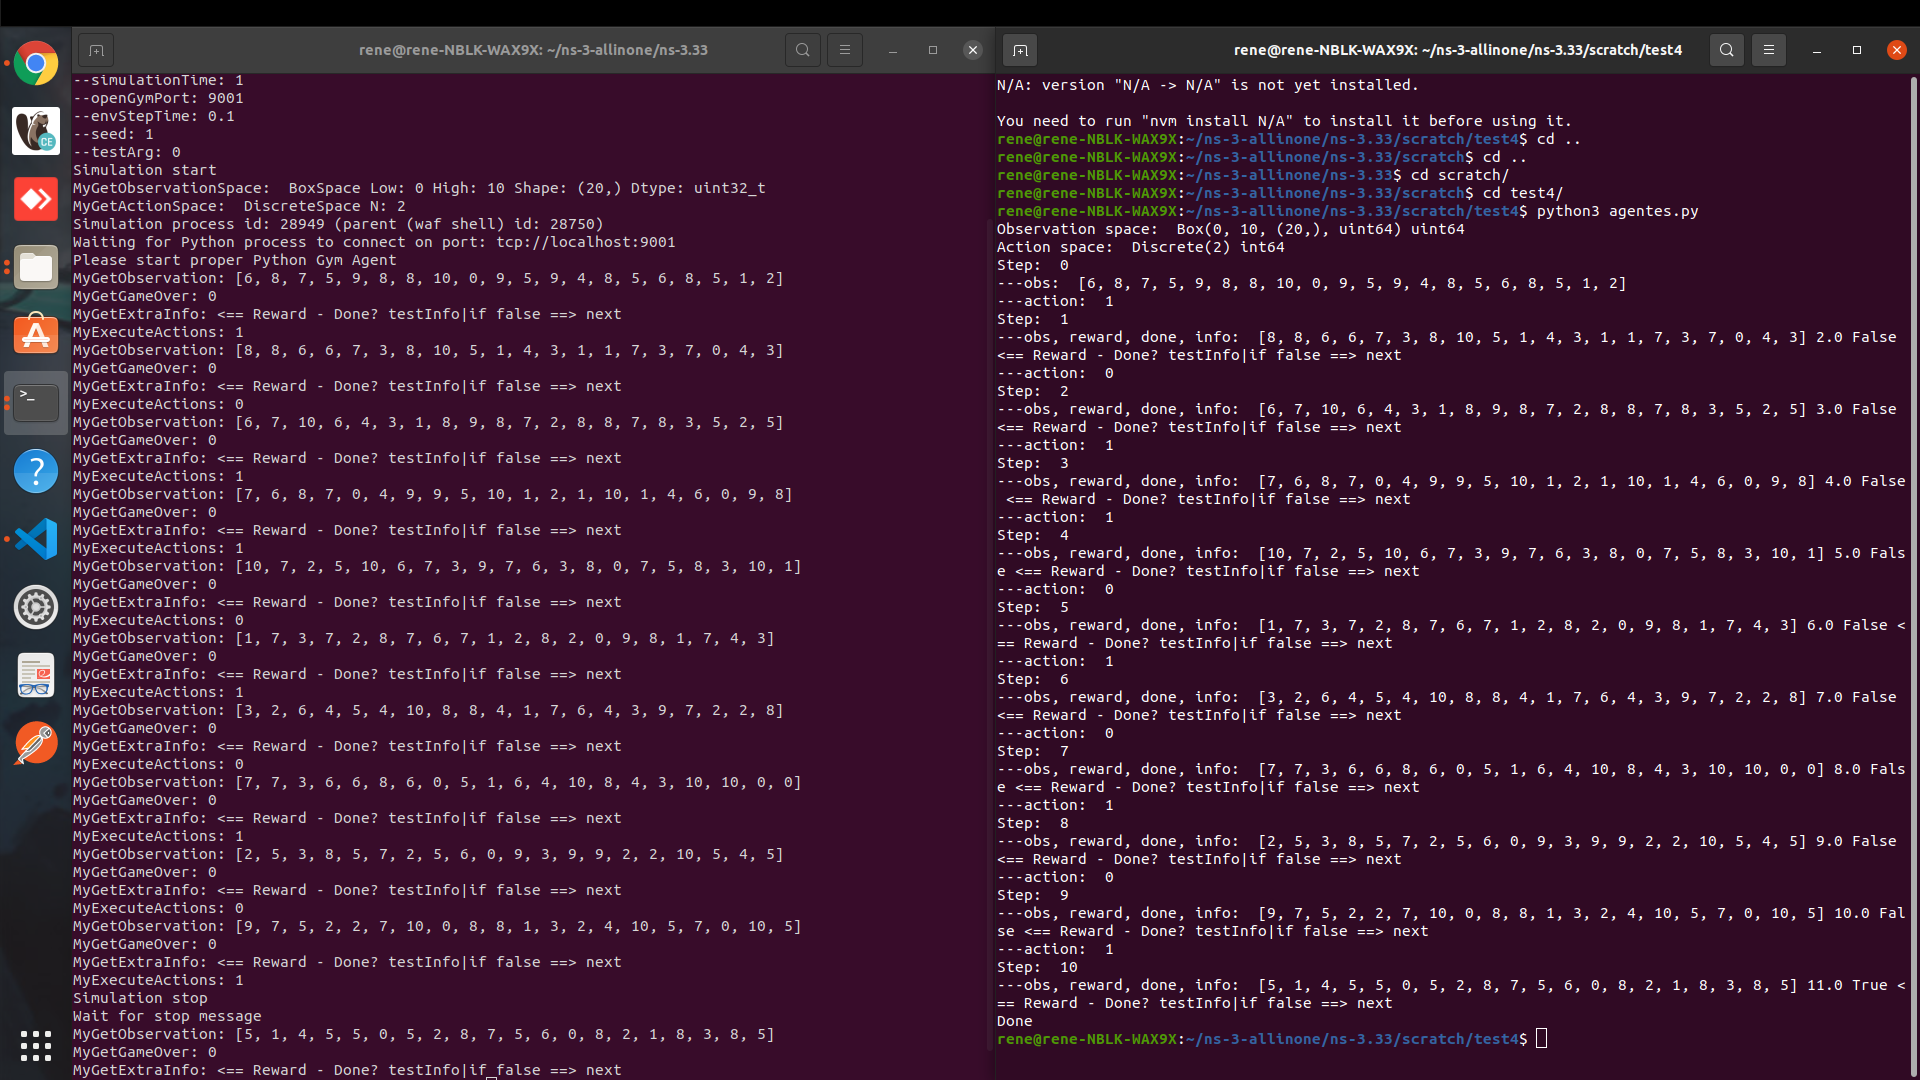
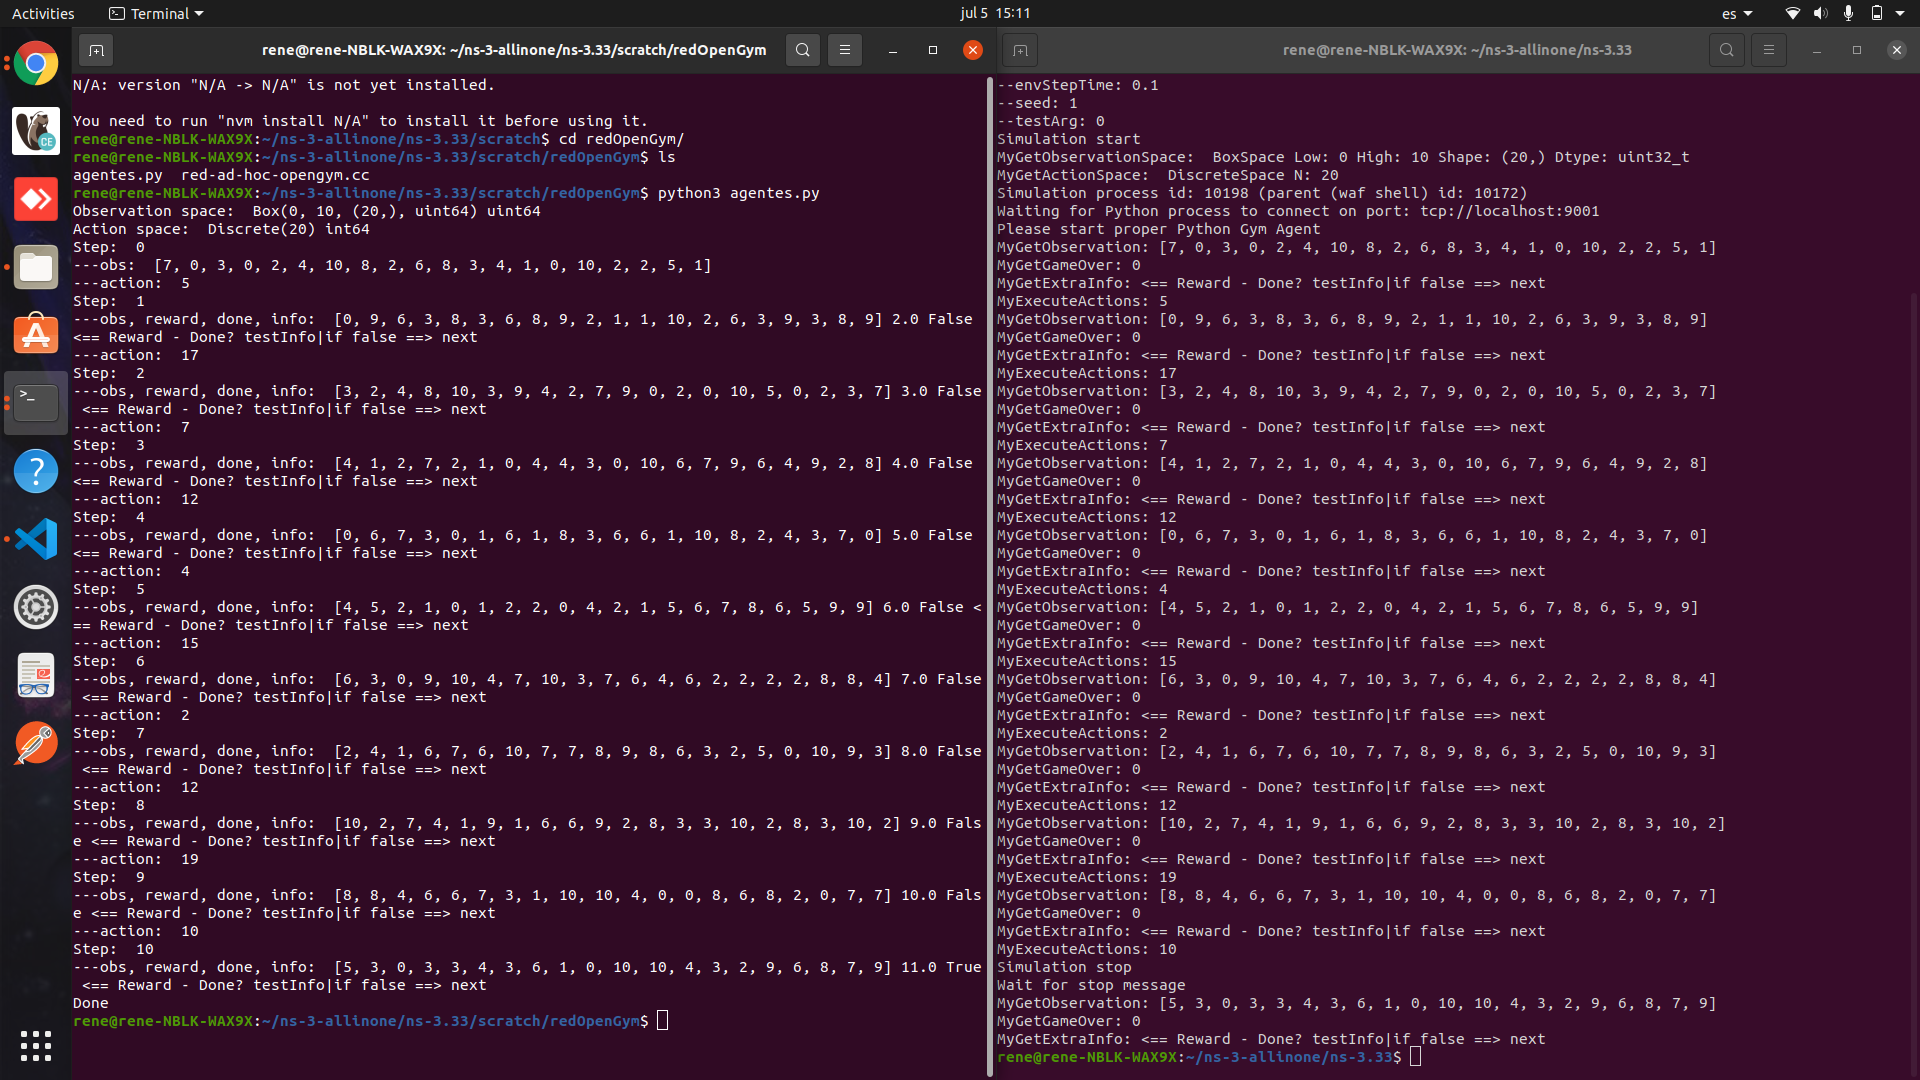
new fixes in opengym escenario :penguin:

diff --git a/Taller ME  G3/redOpenGym/red-ad-hoc-opengym.cc b/Taller ME  G3/redOpenGym/red-ad-hoc-opengym.cc
@@ -1,18 +1,31 @@
+#include "ns3/end-device-lora-phy.h"
+#include "ns3/gateway-lora-phy.h"
+#include "ns3/end-device-lorawan-mac.h"
+#include "ns3/gateway-lorawan-mac.h"
+#include "ns3/simulator.h"
+#include "ns3/log.h"
+#include "ns3/constant-position-mobility-model.h"
+#include "ns3/lora-helper.h"
+#include "ns3/mobility-helper.h"
+#include "ns3/node-container.h"
+#include "ns3/position-allocator.h"
+#include "ns3/one-shot-sender-helper.h"
+#include "ns3/command-line.h"
+#include <algorithm>
+#include <ctime>
+
+
+
 #include "ns3/core-module.h"
 #include "ns3/opengym-module.h"
-#include "ns3/applications-module.h"
-#include "ns3/mobility-module.h"
-#include "ns3/wifi-module.h"
-#include "ns3/csma-module.h"
-#include "ns3/olsr-helper.h"
-#include "ns3/internet-module.h"
-#include "ns3/netanim-module.h"
-using namespace ns3;
 
-NS_LOG_COMPONENT_DEFINE ("OpenGym ME G3");
+using namespace ns3;
+using namespace lorawan; 
+
+NS_LOG_COMPONENT_DEFINE ("OpenGym");
 
 /*
-Definimos espacio de observacion
+Define observation space
 */
 Ptr<OpenGymSpace> MyGetObservationSpace(void)
 {
@@ -27,11 +40,11 @@ Ptr<OpenGymSpace> MyGetObservationSpace(void)
 }
 
 /*
-Definimos espacio de acción
+Define action space
 */
 Ptr<OpenGymSpace> MyGetActionSpace(void)
 {
-  uint32_t nodeNum = 2;
+  uint32_t nodeNum = 20;
 
   Ptr<OpenGymDiscreteSpace> space = CreateObject<OpenGymDiscreteSpace> (nodeNum);
   NS_LOG_UNCOND ("MyGetActionSpace: " << space);
@@ -39,7 +52,7 @@ Ptr<OpenGymSpace> MyGetActionSpace(void)
 }
 
 /*
-Definimos terminacion de juego
+Define game over condition
 */
 bool MyGetGameOver(void)
 {
@@ -56,68 +69,34 @@ bool MyGetGameOver(void)
 }
 
 /*
-Recojemos Observaciones
+Collect observations
 */
 Ptr<OpenGymDataContainer> MyGetObservation(void)
 {
-  //
-  // Primero, inicializamos algunas variables locales que controlan algunos
-  // parametros de la simulacion.
-  //
-  uint32_t backboneNodes = 2;
-  
-  Config::SetDefault ("ns3::OnOffApplication::PacketSize", StringValue ("1472"));
-  Config::SetDefault ("ns3::OnOffApplication::DataRate", StringValue ("100kb/s"));
-  ///////////////////////////////////////////////////////////////////////////
-  //                                                                       //
-  // EL backbone                                                           //
-  //                                                                       //
-  ///////////////////////////////////////////////////////////////////////////
+  Ptr<LogDistancePropagationLossModel> loss = CreateObject<LogDistancePropagationLossModel> ();
+  loss->SetPathLossExponent (3.85);
+  loss->SetReference (1, 7.4);
 
-  //
-  // Creamos un contenedor para administrar los nodos de la red adhoc (backbone).
-  //
-  NodeContainer backbone;
-  backbone.Create (backboneNodes);
-  //
-  // Se define la red wifi al giual qeu en el ejemplo #1
-  //si cuenta con un ns3 version .19
-  // debe descomentar la linea 93 y comentar las lineas 91 y 92
-  WifiHelper wifi;
-  WifiMacHelper mac;
-  mac.SetType ("ns3::AdhocWifiMac");
-  wifi.SetRemoteStationManager ("ns3::ConstantRateWifiManager",
-                                "DataMode", StringValue ("OfdmRate54Mbps"));
-  YansWifiPhyHelper wifiPhy;
-  wifiPhy.SetErrorRateModel ("ns3::NistErrorRateModel");
-  //YansWifiPhyHelper wifiPhy = YansWifiPhyHelper::Default ();
-  YansWifiChannelHelper wifiChannel = YansWifiChannelHelper::Default ();
-  wifiPhy.SetChannel (wifiChannel.Create ());
-  NetDeviceContainer backboneDevices = wifi.Install (wifiPhy, mac, backbone);
-  //
-  // Agregamos la pila de protocolos IPv4 a los nodos en nuestro contenedor
-  //
+  Ptr<PropagationDelayModel> delay = CreateObject<ConstantSpeedPropagationDelayModel> ();
 
-  //OlsrHelper olsr;
-  InternetStackHelper internet;
+  Ptr<LoraChannel> channel = CreateObject<LoraChannel> (loss, delay);
 
-  //internet.SetRoutingHelper (olsr); 
+  /************************
+  *  Create the helpers  *
+  ************************/
 
-  internet.Install(backbone);
-  //
-  // Asignamos direcciones IPv4 a los controladores de dispositivo (en realidad a las interfaces 
-  // IPv4 asociadas) que acabamos de crear.
-  //
-  Ipv4AddressHelper ipAddrs;
-  ipAddrs.SetBase ("192.168.0.0", "255.255.255.0");
-  //ipAddrs.Assign(backboneDevices);
+  //para est ejemplo se asignan en el chanel posiciones cosntantes dado un vector de 0 a 500
 
-  //
-  // Los nodos de red ad-hoc necesitan un modelo de movilidad, por lo que agregamos uno para
-  // cada uno de los nodos que acabamos de terminar de construir.
-  //
+  NS_LOG_INFO ("Setting up helpers...");
 
   MobilityHelper mobility;
+  Ptr<ListPositionAllocator> allocator = CreateObject<ListPositionAllocator> ();
+  allocator->Add (Vector (500,0,0));
+  allocator->Add (Vector (0,0,0));
+  mobility.SetPositionAllocator (allocator);
+  mobility.SetMobilityModel ("ns3::ConstantPositionMobilityModel");
+
+  /*MobilityHelper mobility;
   mobility.SetPositionAllocator ("ns3::GridPositionAllocator",
                                  "MinX", DoubleValue (20.0),
                                  "MinY", DoubleValue (20.0),
@@ -128,47 +107,95 @@ Ptr<OpenGymDataContainer> MyGetObservation(void)
   mobility.SetMobilityModel ("ns3::RandomDirection2dMobilityModel",
                              "Bounds", RectangleValue (Rectangle (-500, 500, -500, 500)),
                              "Speed", StringValue ("ns3::ConstantRandomVariable[Constant=2]"),
-                             "Pause", StringValue ("ns3::ConstantRandomVariable[Constant=0.2]"));
-  mobility.Install (backbone);
-//se define una mobilidad 2 para casos de estudio
-  /*
-  MobilityHelper mobility;
-  Ptr<ListPositionAllocator> allocator = CreateObject<ListPositionAllocator> ();
-  allocator->Add (Vector (1000,0,0));
-  allocator->Add (Vector (0,0,0));
-  mobility.SetPositionAllocator (allocator);
-  mobility.SetMobilityModel ("ns3::ConstantPositionMobilityModel");
-  mobility.Install (backbone);
-  */
+                             "Pause", StringValue ("ns3::ConstantRandomVariable[Constant=0.2]"));*/
+
+  // Create the LoraPhyHelper  aqui asignamos la capa fisica
+  LoraPhyHelper phyHelper = LoraPhyHelper ();
+  phyHelper.SetChannel (channel);
+
+  // Create the LorawanMacHelper aqui asignamos la capa de mac 
+  LorawanMacHelper macHelper = LorawanMacHelper ();
+
+  // Create the LoraHelper
+  LoraHelper helper = LoraHelper ();
+
+  /************************
+  *  Create End Devices  *
+  ************************/
+
+  NS_LOG_INFO ("Creating the end device...");
+
+  // Create a set of nodes
+  NodeContainer endDevices;
+  endDevices.Create (20);
+
+  // Assign a mobility model to the node
+  mobility.Install (endDevices);
+
+  uint8_t nwkId = 54;
+  uint32_t nwkAddr = 1864;
+  Ptr<LoraDeviceAddressGenerator> addrGen = CreateObject<LoraDeviceAddressGenerator> (nwkId, nwkAddr);
+  macHelper.SetAddressGenerator (addrGen);
+
+  // Create the LoraNetDevices of the end devices    aqui usamos las definiciones de capa fisica y mas para
+  //que se identifiquen en el canal los equipos como dispositivos finales o endpoints
+  phyHelper.SetDeviceType (LoraPhyHelper::ED);
+  macHelper.SetDeviceType (LorawanMacHelper::ED_A);
+  helper.Install (phyHelper, macHelper, endDevices);
+
+  /*********************
+  *  Create Gateways  *
+  *********************/
+
+  NS_LOG_INFO ("Creating the gateway...");
+  NodeContainer gateways;
+  gateways.Create (1);
+
+  mobility.Install (gateways);
+
+  // Create a netdevice for each gateway
+  phyHelper.SetDeviceType (LoraPhyHelper::GW);
+  macHelper.SetDeviceType (LorawanMacHelper::GW);
+  helper.Install (phyHelper, macHelper, gateways);
+
+  /*********************************************
+  *  Install applications on the end devices  *
+  *********************************************/
+
+  OneShotSenderHelper oneShotSenderHelper;
+  oneShotSenderHelper.SetSendTime (Seconds (3));
+
+  oneShotSenderHelper.Install (endDevices);
+
+  /******************
+   * Set Data Rates *
+   ******************/
+  std::vector<int> sfQuantity (5);
+  sfQuantity = macHelper.SetSpreadingFactorsUp (endDevices, gateways, channel);
 
   NS_LOG_INFO ("Run Simulation.");
-
-  //Simulator::Stop (Seconds (stopTime));
-  //Simulator::Run ();
-  //Simulator::Destroy ();
-
   uint32_t nodeNum = 20;
   uint32_t low = 0.0;
   uint32_t high = 10.0;
   Ptr<UniformRandomVariable> rngInt = CreateObject<UniformRandomVariable> ();
 
+
+
   std::vector<uint32_t> shape = {nodeNum,};
   Ptr<OpenGymBoxContainer<uint32_t> > box = CreateObject<OpenGymBoxContainer<uint32_t> >(shape);
 
-  // genera datos aleatorios
+  // generate random data
   for (uint32_t i = 0; i<nodeNum; i++){
     uint32_t value = rngInt->GetInteger(low, high);
     box->AddValue(value);
   }
 
   NS_LOG_UNCOND ("MyGetObservation: " << box);
-  
   return box;
 }
 
 /*
-Definimos funcion de recompensa
-esta funcion suma 1 punto cada ves que hay avance por parte de la red segun el agente
+Define reward function
 */
 float MyGetReward(void)
 {
@@ -190,7 +217,7 @@ std::string MyGetExtraInfo(void)
 
 
 /*
-Ejecutamos acciones recibidas
+Execute received actions
 */
 bool MyExecuteActions(Ptr<OpenGymDataContainer> action)
 {
@@ -208,18 +235,18 @@ void ScheduleNextStateRead(double envStepTime, Ptr<OpenGymInterface> openGym)
 int
 main (int argc, char *argv[])
 {
-  // Parametros del escenario
+  // Parameters of the scenario
   uint32_t simSeed = 1;
-  double simulationTime = 1; //Segundos
-  double envStepTime = 0.1; //Segundos, ns3gym env del paso en el intertalo de segundos
+  double simulationTime = 1; //seconds
+  double envStepTime = 0.1; //seconds, ns3gym env step time interval
   uint32_t openGymPort = 9001;
   uint32_t testArg = 0;
 
   CommandLine cmd;
-  // Parametros requeridos para la interfaz de  OpenGym 
+  // required parameters for OpenGym interface
   cmd.AddValue ("openGymPort", "Port number for OpenGym env. Default: 9001", openGymPort);
   cmd.AddValue ("simSeed", "Seed for random generator. Default: 1", simSeed);
-  // parametros opcionales
+  // optional parameters
   cmd.AddValue ("simTime", "Simulation time in seconds. Default: 10s", simulationTime);
   cmd.AddValue ("testArg", "Extra simulation argument. Default: 0", testArg);
   cmd.Parse (argc, argv);
